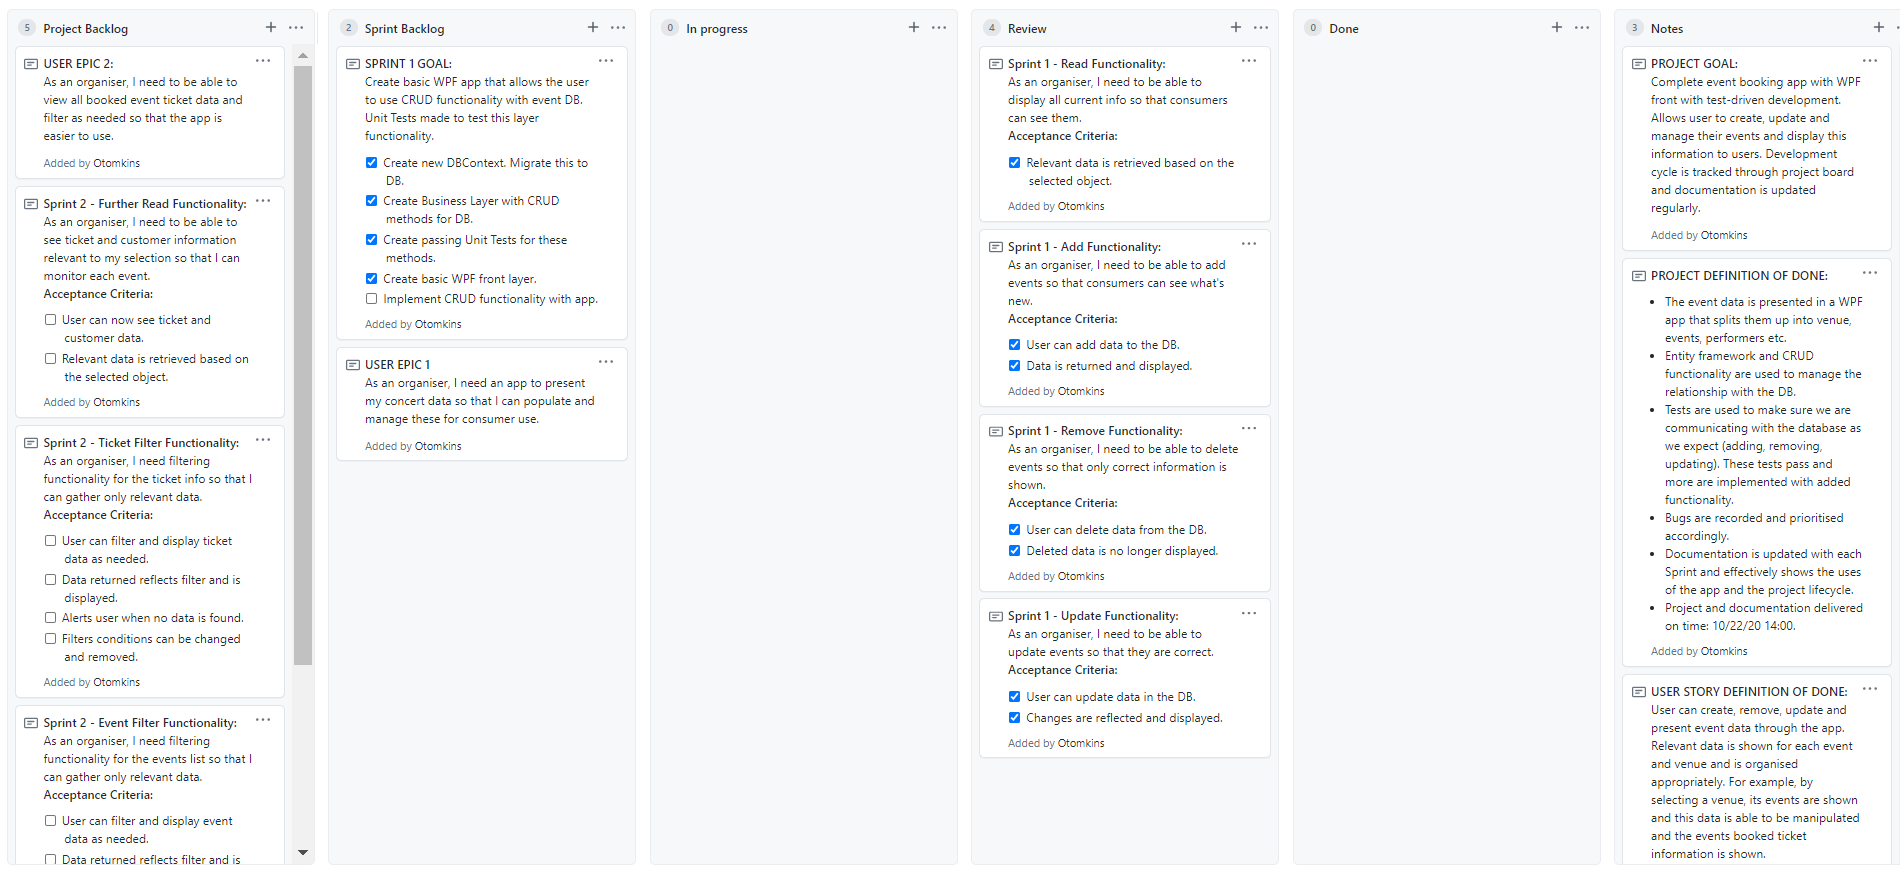
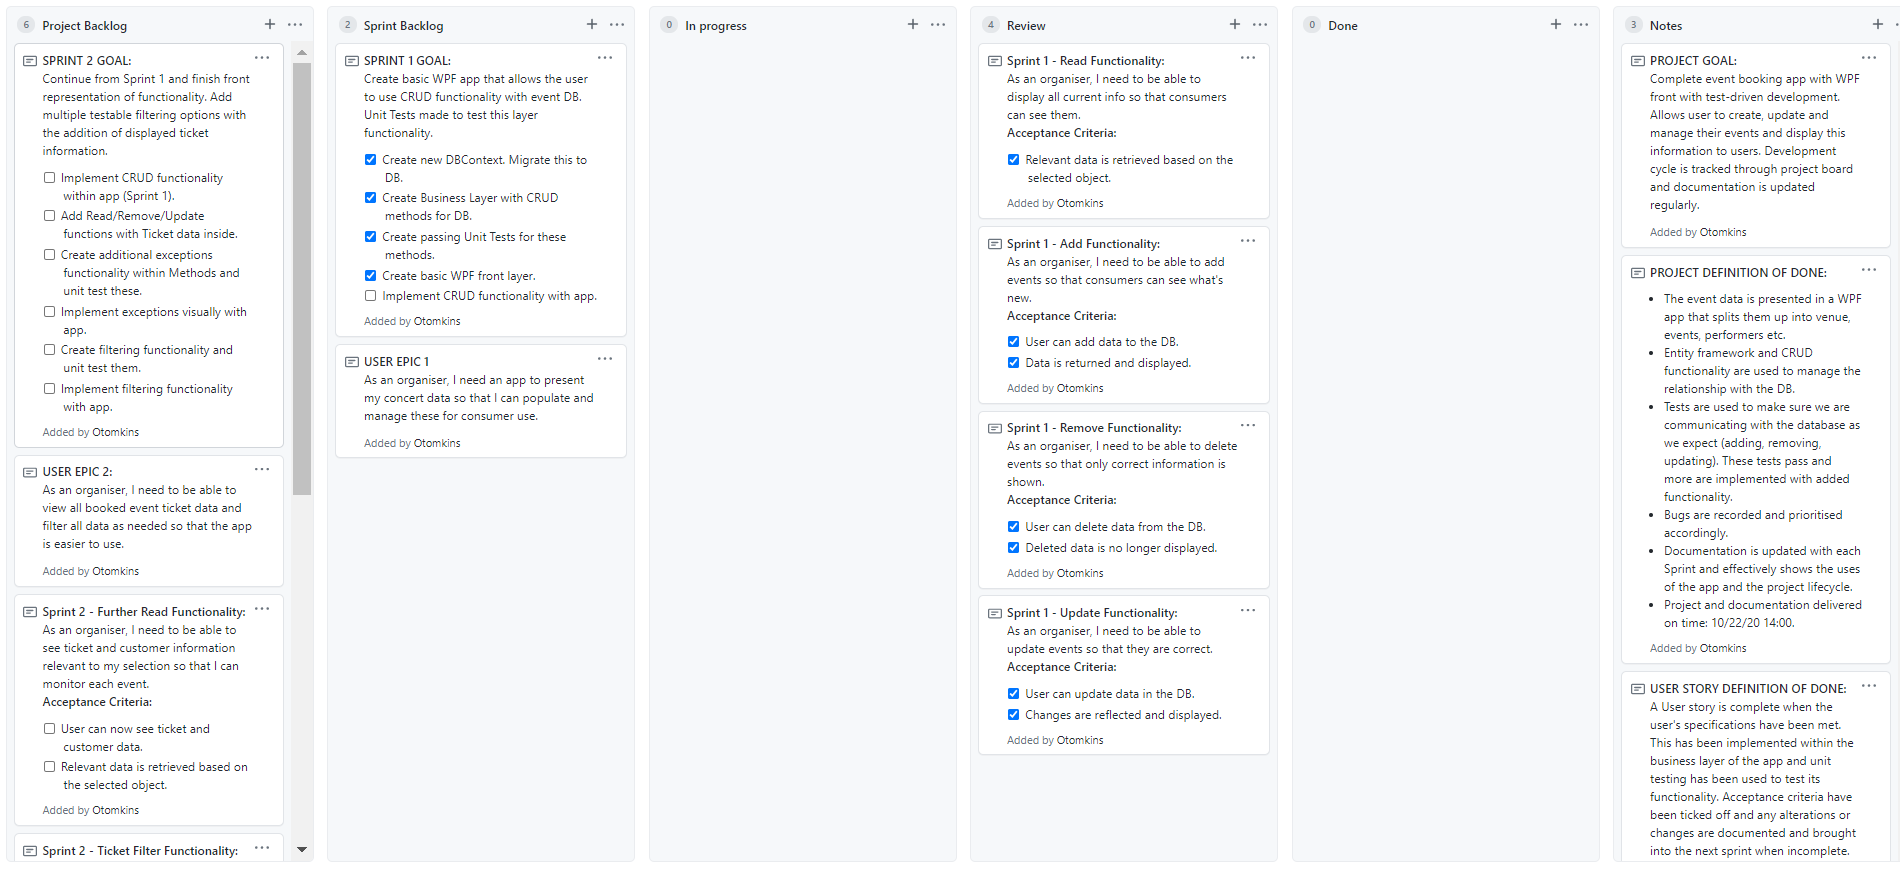
Start of Sprint 2. Added documentation

diff --git a/Sprint_2/README.md b/Sprint_2/README.md
@@ -1,0 +1,77 @@
+# Event Booking Application
+
+**By Oliver Tomkins**
+
+[TOC]
+
+#### `PROJECT GOAL`
+
+> Complete event booking app with WPF front with test-driven development. Allows user to create, update and manage their events and display this information to users. Development cycle is tracked through project board and documentation is updated regularly.
+
+#### `PROJECT DEFINITION OF DONE`
+
+- The event data is presented in a WPF app that splits them up into venue, events, performers etc.
+- Entity framework and CRUD functionality are used to manage the relationship with the DB.
+- Tests are used to make sure we are communicating with the database as we expect (adding, removing, updating).  These tests pass and more are implemented with added functionality.
+- Bugs are recorded and prioritised accordingly.
+- Documentation is updated with each Sprint and effectively shows the uses of the app and the project lifecycle.
+- Project and documentation delivered on time: 10/22/20 14:00.
+
+#### `USER STORY DEFINITION OF DONE`
+
+> A User story is complete when the user's specifications have been met. This has been implemented within the business layer of the app and unit testing has been used to test its functionality. Acceptance criteria have been ticked off and any alterations or changes are documented and brought into the next sprint when incomplete.
+
+## **Project Lifecycle**
+
+### SPRINT 2
+
+> *See 'Sprint 2 Start - ProjectBoard.png'  in 'Otomkins/EventBookingApplication/Sprint_2'.*
+
+<b>SPRINT 2 GOAL:</b>
+Continue from Sprint 1 and finish front representation of functionality. Add multiple testable filtering options with the addition of displayed ticket information. 
+- [ ] Implement CRUD functionality within app (Sprint 1).
+- [ ] Add Read/Remove/Update functions with Ticket data inside.
+- [ ] Create additional exceptions functionality within Methods and unit test these.
+- [ ] Implement exceptions visually with app.
+- [ ] Create filtering functionality and unit test them.
+- [ ] Implement filtering functionality with app.
+
+<b>USER EPIC 1 (Continued From Sprint 1):</b>
+
+> As an organiser, I need an app to present my concert data so that I can populate and manage these for consumer use.
+
+<b>USER EPIC 2:</b>
+
+> As an organiser, I need to be able to view all booked event ticket data and filter all data as needed so that the app is easier to use.
+
+#### `USER STORIES`
+
+<b>1. Further Read Functionality:</b>
+As an organiser, I need to be able to see ticket and customer information relevant to my selection so that I can monitor each event.
+<b>Acceptance Criteria:</b>
+
+- [ ] User can now see ticket and customer data.
+- [ ]  Relevant data is retrieved based on the selected object.
+
+<b>2. Ticket Filter Functionality:</b>
+As an organiser, I need filtering functionality for the ticket info so that I can gather only relevant data.
+<b>Acceptance Criteria:</b>
+
+- [ ] User can filter and display ticket data as needed.
+- [ ] Data returned reflects filter and is displayed.
+- [ ] Alerts user when no data is found.
+- [ ] Filters conditions can be changed and removed.
+
+<b>3. Event Filter Functionality:</b>
+As an organiser, I need filtering functionality for the events list so that I can gather only relevant data.
+<b>Acceptance Criteria:</b>
+
+- [ ] User can filter and display event data as needed.
+- [ ] Data returned reflects filter and is displayed.
+- [ ] Alerts user when no data is found.
+- [ ] Filters conditions can be changed and removed.
+
+
+
+
+

diff --git a/Sprint_1/README.md b/Sprint_1/README.md
@@ -25,7 +25,7 @@
 
 ### SPRINT 1
 
-> *See 'Sprint 1 Start - ProjectBoard.png'  in 'Otomkins/EventBookingApplication'.*
+> *See 'Sprint 1 Start - ProjectBoard.png'  in 'Otomkins/EventBookingApplication/Sprint_1'.*
 
 **SPRINT GOAL:**
 
@@ -41,8 +41,7 @@ Create basic WPF app with unit tests allowing a user to use CRUD functionality w
 
 - [ ] Implement CRUD functionality inside app.
 
-
-<b>USER EPIC</b>
+<b>USER EPIC 1:</b>
 
 > As an organiser, I need an app to present my concert data so that I can populate and manage these for consumer use.
 
